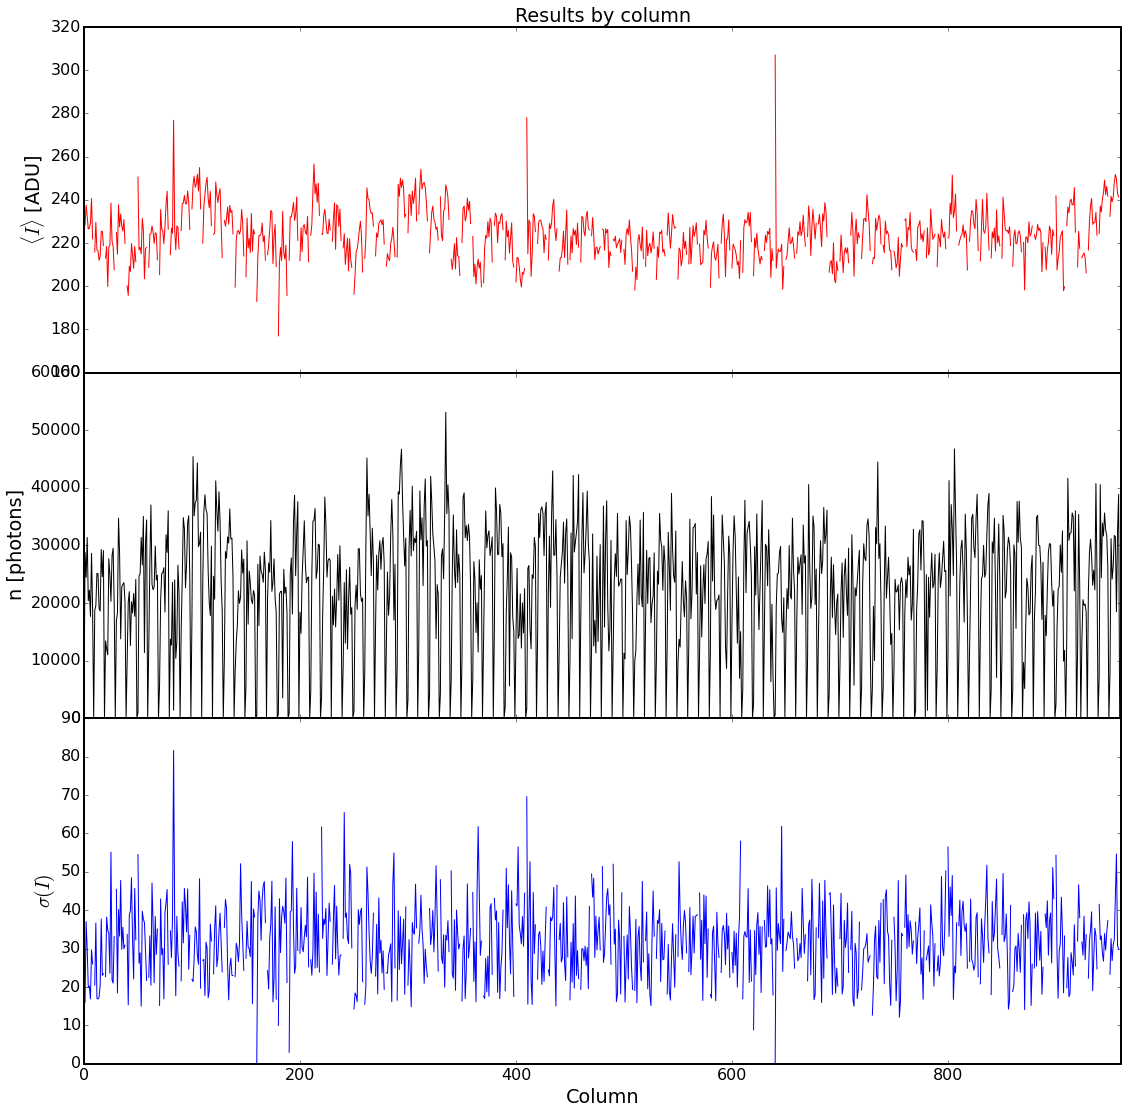
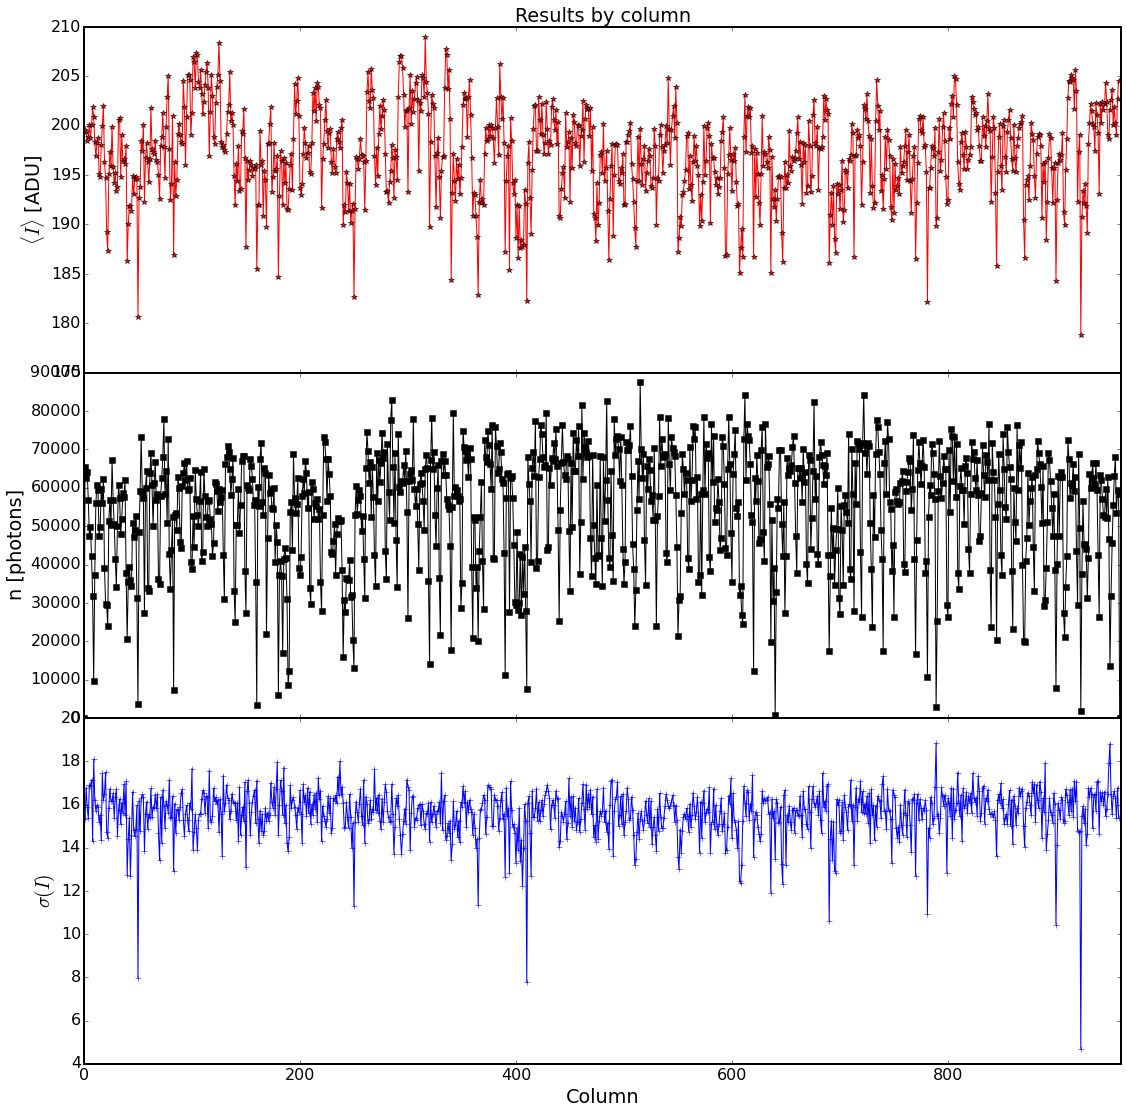
Generated gh-pages commit 9a6eafb Author: Stuart B. Wilkins <swilkins@bnl.gov>
Added license

Changed region(s): [[0.0311, 0.3662, 0.9938, 0.6409], [0.0311, 0.0305, 0.9938, 0.3052], [0.0621, 0.6715, 0.9938, 0.9156]]

diff --git a/searchindex.js b/searchindex.js
@@ -1,1 +1,1 @@
-Search.setIndex({envversion:47,filenames:["api/fastccd","api/image","api/index","api/ipynb","api/utils","examples/Correct_FastCCD_Images","examples/Fe55_Single_Photon_Counting","examples/Performance_Tests","examples/index","index"],objects:{"csxtools.fastccd":{correct_images:[0,1,1,""],photon_count:[0,1,1,""]},"csxtools.image":{rotate90:[1,1,1,""]},"csxtools.ipynb":{image_stack_to_movie:[3,1,1,""],show_image_stack:[3,1,1,""]},"csxtools.utils":{get_fastccd_images:[4,1,1,""]},csxtools:{fastccd:[0,0,0,"-"],image:[1,0,0,"-"],ipynb:[3,0,0,"-"],utils:[4,0,0,"-"]}},objnames:{"0":["py","module","Python module"],"1":["py","function","Python function"]},objtypes:{"0":"py:module","1":"py:function"},terms:{"000000e":5,"00ae":5,"05e2":5,"0b0000000000000000":7,"0b0001111111111111":7,"0b1000000000000000":7,"0b1100000000000000":7,"0x7f20d879def0":[],"0x7f20d87aceb8":[],"0x7f279d2edcc0":[],"0x7f279d625240":[],"0x7fd369567cc0":6,"0x7fd38824fac8":6,"20eed5d8":5,"23id":5,"23id1":5,"2bf2d671":5,"41e5":5,"428e":5,"49ca":5,"4aea":5,"4b0e":5,"4fb9":5,"5edae7b15878":5,"7180b59d":5,"798db66b98a0":5,"8a55":5,"8ccb17cbdacc":5,"95c22c122446":5,"9b11":5,"9bc8893220b0":5,"__version__":5,"import":[],"int":[0,3,7],"return":[0,1,4,6,7],"true":[0,5,6],acquireperiod_rbv:5,acquiretime_rbv:5,adc:0,adjust_gain_and_subtract_bg:7,adu:[],analysi:[0,6],anitclockwis:1,append:6,arang:6,areadetectorfilestorehdf5:5,arrai:[0,1,4,5,6,7],array_lik:[0,1,3,4],asarrai:6,associ:[4,5],astyp:6,auto_monitor:5,avali:4,averag:[],ax1:6,ax2:6,axi:[3,6,7],b10c5661aaaa:5,b2596f8e:5,b592:5,b6a4:5,backgorund:4,backgrond:0,background:5,bad:4,bar:3,base:6,basenam:5,bd3c:5,bd9b:5,beamlin:9,beamline_id:5,bgnd:[5,7],big:7,big_arrai:7,bin:6,bit:4,bnl2_20140410_normalizedtiff:6,bnl2_20140410_normalizedtiffs50count:6,bool:0,bright:0,browser:5,btmx:5,btmy:5,btmz:5,c23:5,calcul:[0,7],call:4,cam1:5,can:[4,5],ccd:[0,5,6,7],ccw:1,ce5042b7:5,chan:5,channel:9,click:9,clockwis:1,cluster:0,cmap:3,cmd:5,cmrmap:3,coher:9,col:[],color:[3,6],colormap:3,column:[5,6],config:5,convert:[3,4],correct:[],correct_imag:[0,7],count:[],creat:[3,7],cryo:5,csxtool:[],d220:5,d8a5:5,dark:[0,4],dark_head:4,darkfield:5,data:[],databork:4,databrok:[4,5],def:[6,7],defin:4,deg:4,degre:[1,6],del:5,delai:5,delta:5,depend:5,deposit:0,detector:5,deviat:[0,6],diag:5,dif:5,differ:0,dimens:4,dirti:5,displai:3,doe:[0,5],dtype:[5,7],each:[0,3],element:0,empti:[0,6],energi:0,enrgi:5,enter:4,entri:5,enumer:6,env:6,epicsmotor:5,epicsscal:5,epicssign:5,epu1_gap:5,epu1_phas:5,epu2_gap:5,epu2_phas:5,epu:5,eta:5,eventdescriptor:5,exit_statu:5,exp100u:6,extern:5,factor:0,fals:[0,5],fast:7,fccd:5,fccd_acquire_period:5,fccd_acquire_tim:5,fccd_data:5,fccd_image_lightfield:[4,5],fccd_stats_total1:5,fccd_stats_total2:5,fccd_stats_total3:5,fccd_stats_total4:5,fccd_stats_total5:5,fe55:6,ffcol:[],ffn:6,ffstd:6,fig:6,figsiz:[3,5,6],figur:[3,6],file_path:5,filestor:5,fill:5,first:[],flat:[0,4],flatfield:[],float32:[6,7],fontsiz:3,form:[3,4],format:[6,7],frame:[3,5],framer:3,freedom:6,from:[3,4,5,6,7],futur:5,g1a:5,gain:[0,4],gam:5,gamma:5,gap:5,gc8f9f5f:5,get_fastccd_imag:[4,5],get_imag:4,get_photon:6,get_tabl:5,global:[6,7],gpf:[5,6],group:5,half:6,hc5837:6,header:[4,5],here:9,hist_x:6,hit:0,html5:5,identifi:0,imag:[],image_stack_to_movi:[3,5],imshow:[3,6],includ:5,inlin:[5,6],input:[0,1],integr:[],intens:0,intensti:3,interact:[],interpol:6,inti:6,ioc_file_path:5,ipynb:[3,5],ipython:[],ipywidget:5,iter:6,join:9,kei:5,label:[3,6],last:[1,4],lbnl_test_data:6,least:[0,4],leftangl:6,legend:6,len:5,lib:6,librari:9,light_head:4,limit:5,line2d:6,line:6,linspac:6,make_panel_plot:6,matplotlib:[3,5,6],matrix:7,max:[0,3],maximum:3,mean:[],metadata:5,min:[0,3],miniconda3:6,minimum:3,minmax:3,mono:5,most:[0,4,5],moudl:5,movi:[],mtr:5,multigain:[0,4],multipl:0,multipli:4,name:5,nan:[0,4,6],nanfunct:6,nanmean:6,nanstd:6,nansum:6,next:6,none:[0,3,4,5,6],notebook:[],npbx:5,npby:5,npbz:5,nptx:5,npty:5,nptz:5,nsl:9,nsum:0,num:5,number:[0,3,5,6,7],numchan:5,numpi:[5,6,7],onli:[5,6],option:0,other:5,owner:5,packag:6,page:6,paramet:[0,1,3,4],per:6,perform:[],pgm_energi:5,phase:5,phocount:6,photon:[],photon_count:[0,6],pixel:[0,4],pleas:9,plot:[],plot_result:6,plt:[5,6],print:[5,6,7],produc:5,project:5,put_complet:5,pv_kw:5,pvposition:5,pyplot:[5,6],python3:6,python:9,rai:9,rainbow:6,rang:6,ravel:6,raw_data:7,rbv:5,read:5,read_pv:5,readback:5,reason:5,record:5,remov:[],replac:0,reshap:[],result:6,retreiv:4,retriev:4,rightangl:6,ring_curr:5,rotat:[],rotate90:[1,7],row:[5,6],run:[],run_start:5,runstart:5,runstop:5,runtimewarn:6,sai:5,sampl:5,saz:5,sbwnotebook:6,scan_arg:5,scan_id:5,scan_typ:5,scatter:9,sclr:5,sclr_chan1:5,sclr_chan2:5,sclr_chan3:5,sclr_chan4:5,sclr_chan5:5,sclr_chan6:5,sclr_chan7:5,sclr_chan8:5,sclr_time:5,search:0,second:[0,6,7],semilog:6,sens:1,sensit:[0,4],set:[0,4],set_titl:6,set_xlabel:6,set_xlim:6,set_ylabel:6,setpoint:5,settle_tim:5,shape:[0,1,3,5,6,7],should:[0,1,4,5],show:3,show_image_stack:[3,5],shutter:5,shutter_rb:5,shutter_v:5,sigma:6,singl:[],site:6,size:[0,1,3,4],slack:9,slice:6,slt1_xc:5,slt1_xg:5,slt1_yc:5,slt1_yg:5,slt2_xc:5,slt2_xg:5,slt2_yc:5,slt2_yg:5,slt3_x:5,slt3_y:5,slt:5,soft:9,some:[],sourc:[0,1,3,4,5],speed:7,stack:[],standard:[0,6],stat:5,stats1:5,stats2:5,stats3:5,stats4:5,stats5:5,stop:5,stop_val:5,string:[1,3,4,5],style:6,subplot:6,subtract:0,subtrtact:0,success:5,support:[5,9],swilkin:6,tag:[4,5],take:[6,7],taken:5,tctrl:5,temp_a:5,temp_b:5,text:6,thank:5,theta:5,thi:[0,1,4,5],three:0,thresh:0,threshold:0,tiff:6,tifffil:6,time:5,timeit:[6,7],topi:5,topx:5,topz:5,total_rbv:5,tupl:[0,3,4],twinx:6,two:[0,1,4],type:[0,1,4],uid:5,uint16:7,untag:5,user:6,util:[],valu:[3,6],variou:5,version:5,video:5,view:5,vmax:[3,5,6],vmin:[3,5,6],warn:6,what:5,where:[0,3],which:5,within:0,without:5,xctr:5,xf23id1:[5,6],xf23id:[5,6],xgap:5,xlabel:6,yctr:5,ygap:5,ylabel:6,your:5,zero:7,zlabel:3},titles:["FastCCD Routines","Image Processing Routines","API Reference for CSX Tools","IPython Notebook Routines","Utilities","Example Notebook for Correcting and loading FastCCD Images","Single Photon Counting with FastCCD and CSXTOOLS","Performance Tests","Example Notebooks","CSXTOOLS Doccumentation"],titleterms:{"function":6,"import":6,adu:6,api:[0,1,2,3,4],check:6,content:[2,8,9],correct:[5,6,7],count:6,csx:2,csxtool:[6,9],data:[5,6],definit:6,difer:6,doccument:9,esum:6,exampl:[5,8],fastccd:[0,5,6,7],first:6,flatfield:6,gener:6,get:5,histogram:6,imag:[1,5,7],integr:6,interact:5,introduct:9,ipython:3,let:5,load:[5,6],loop:6,mean:7,movi:5,notebook:[3,5,8],now:5,perform:7,photon:6,plot:[5,6],process:1,refer:[0,1,2,3,4],rotat:7,routin:[0,1,3],run:6,singl:6,some:6,stack:[5,7],start:5,test:[6,7],tool:2,util:4,widget:5}})
+Search.setIndex({envversion:47,filenames:["api/fastccd","api/image","api/index","api/ipynb","api/utils","examples/Correct_FastCCD_Images","examples/Fe55_Single_Photon_Counting","examples/Performance_Tests","examples/index","index"],objects:{"csxtools.fastccd":{correct_images:[0,1,1,""],photon_count:[0,1,1,""]},"csxtools.image":{rotate90:[1,1,1,""]},"csxtools.ipynb":{image_stack_to_movie:[3,1,1,""],show_image_stack:[3,1,1,""]},"csxtools.utils":{get_fastccd_images:[4,1,1,""]},csxtools:{fastccd:[0,0,0,"-"],image:[1,0,0,"-"],ipynb:[3,0,0,"-"],utils:[4,0,0,"-"]}},objnames:{"0":["py","module","Python module"],"1":["py","function","Python function"]},objtypes:{"0":"py:module","1":"py:function"},terms:{"000000e":5,"00ae":5,"05e2":5,"0b0000000000000000":7,"0b0001111111111111":7,"0b1000000000000000":7,"0b1100000000000000":7,"0x7f20d879def0":[],"0x7f20d87aceb8":[],"0x7f279d2edcc0":[],"0x7f279d625240":[],"0x7fcc94394c50":6,"0x7fcca0ae94e0":6,"0x7fd369567cc0":[],"0x7fd38824fac8":[],"20eed5d8":5,"23id":5,"23id1":5,"2bf2d671":5,"41e5":5,"428e":5,"49ca":5,"4aea":5,"4b0e":5,"4fb9":5,"5edae7b15878":5,"7180b59d":5,"798db66b98a0":5,"8a55":5,"8ccb17cbdacc":5,"95c22c122446":5,"9b11":5,"9bc8893220b0":5,"__version__":5,"import":[],"int":[0,3,7],"return":[0,1,4,6,7],"true":[0,5,6],acquireperiod_rbv:5,acquiretime_rbv:5,adc:0,adjust_gain_and_subtract_bg:7,adu:[],analysi:[0,6],anitclockwis:1,append:6,arang:6,areadetectorfilestorehdf5:5,arrai:[0,1,4,5,6,7],array_lik:[0,1,3,4],asarrai:6,associ:[4,5],astyp:6,auto_monitor:5,avali:4,averag:[],ax1:6,ax2:6,axi:[3,6,7],b10c5661aaaa:5,b2596f8e:5,b592:5,b6a4:5,backgorund:4,backgrond:0,background:5,bad:4,bar:3,base:6,basenam:5,bd3c:5,bd9b:5,beamlin:9,beamline_id:5,bgnd:[5,7],big:7,big_arrai:7,bin:6,bit:4,bnl2_20140410_normalizedtiff:6,bnl2_20140410_normalizedtiffs50count:6,bool:0,bright:0,browser:5,btmx:5,btmy:5,btmz:5,c23:5,calcul:[0,7],call:4,cam1:5,can:[4,5],ccd:[0,5,6,7],ccw:1,ce5042b7:5,chan:5,channel:9,click:9,clockwis:1,cluster:0,cmap:3,cmd:5,cmrmap:3,coher:9,col:[],color:[3,6],colormap:3,column:[5,6],config:5,convert:[3,4],correct:[],correct_imag:[0,7],count:[],creat:[3,7],cryo:5,csxtool:[],d220:5,d8a5:5,dark:[0,4],dark_head:4,darkfield:5,data:[],databork:4,databrok:[4,5],def:[6,7],defin:4,deg:4,degre:[1,6],del:5,delai:5,delta:5,depend:5,deposit:0,detector:5,deviat:[0,6],diag:5,dif:5,differ:0,dimens:4,dirti:5,displai:3,doe:[0,5],dtype:[5,7],each:[0,3],element:0,empti:[0,6],energi:0,enrgi:5,enter:4,entri:5,enumer:6,env:6,epicsmotor:5,epicsscal:5,epicssign:5,epu1_gap:5,epu1_phas:5,epu2_gap:5,epu2_phas:5,epu:5,eta:5,eventdescriptor:5,exit_statu:5,exp100u:6,extern:5,factor:0,fals:[0,5],fast:7,fccd:5,fccd_acquire_period:5,fccd_acquire_tim:5,fccd_data:5,fccd_image_lightfield:[4,5],fccd_stats_total1:5,fccd_stats_total2:5,fccd_stats_total3:5,fccd_stats_total4:5,fccd_stats_total5:5,fe55:6,ffcol:[],ffn:6,ffstd:6,fig:6,figsiz:[3,5,6],figur:[3,6],file_path:5,filestor:5,fill:5,first:[],flat:[0,4],flatfield:[],float32:[6,7],fontsiz:3,form:[3,4],format:[6,7],frame:[3,5],framer:3,freedom:6,from:[3,4,5,6,7],futur:5,g1a:5,gain:[0,4],gam:5,gamma:5,gap:5,gc8f9f5f:5,get_fastccd_imag:[4,5],get_imag:4,get_photon:6,get_tabl:5,global:[6,7],gpf:[5,6],group:5,half:6,hc5837:6,header:[4,5],here:9,hist_x:6,hit:0,html5:5,identifi:0,imag:[],image_stack_to_movi:[3,5],imshow:[3,6],includ:5,inlin:[5,6],input:[0,1],integr:[],intens:0,intensti:3,interact:[],interpol:6,inti:6,ioc_file_path:5,ipynb:[3,5],ipython:[],ipywidget:5,iter:6,join:9,kei:5,label:[3,6],last:[1,4],lbnl_test_data:6,least:[0,4],leftangl:6,legend:6,len:5,lib:6,librari:9,light_head:4,limit:5,line2d:6,line:6,linspac:6,make_panel_plot:6,matplotlib:[3,5,6],matrix:7,max:[0,3],maximum:3,mean:[],metadata:5,min:[0,3],miniconda3:6,minimum:3,minmax:3,mono:5,most:[0,4,5],moudl:5,movi:[],mtr:5,multigain:[0,4],multipl:0,multipli:4,name:5,nan:[0,4,6],nanfunct:6,nanmean:6,nanstd:6,nansum:6,next:6,none:[0,3,4,5,6],notebook:[],npbx:5,npby:5,npbz:5,nptx:5,npty:5,nptz:5,nsl:9,nsum:0,num:5,number:[0,3,5,6,7],numchan:5,numpi:[5,6,7],onli:[5,6],option:0,other:5,owner:5,packag:6,page:6,paramet:[0,1,3,4],per:6,perform:[],pgm_energi:5,phase:5,phocount:6,photon:[],photon_count:[0,6],pixel:[0,4],pleas:9,plot:[],plot_result:6,plt:[5,6],print:[5,6,7],produc:5,project:5,put_complet:5,pv_kw:5,pvposition:5,pyplot:[5,6],python3:6,python:9,rai:9,rainbow:6,rang:6,ravel:6,raw_data:7,rbv:5,read:5,read_pv:5,readback:5,reason:5,record:5,remov:[],replac:0,reshap:[],result:6,retreiv:4,retriev:4,rightangl:6,ring_curr:5,rotat:[],rotate90:[1,7],row:[5,6],run:[],run_start:5,runstart:5,runstop:5,runtimewarn:6,sai:5,sampl:5,saz:5,sbwnotebook:6,scan_arg:5,scan_id:5,scan_typ:5,scatter:9,sclr:5,sclr_chan1:5,sclr_chan2:5,sclr_chan3:5,sclr_chan4:5,sclr_chan5:5,sclr_chan6:5,sclr_chan7:5,sclr_chan8:5,sclr_time:5,search:0,second:[0,6,7],semilog:6,sens:1,sensit:[0,4],set:[0,4],set_titl:6,set_xlabel:6,set_xlim:6,set_ylabel:6,setpoint:5,settle_tim:5,shape:[0,1,3,5,6,7],should:[0,1,4,5],show:3,show_image_stack:[3,5],shutter:5,shutter_rb:5,shutter_v:5,sigma:6,singl:[],site:6,size:[0,1,3,4],slack:9,slice:6,slt1_xc:5,slt1_xg:5,slt1_yc:5,slt1_yg:5,slt2_xc:5,slt2_xg:5,slt2_yc:5,slt2_yg:5,slt3_x:5,slt3_y:5,slt:5,soft:9,some:[],sourc:[0,1,3,4,5],speed:7,stack:[],standard:[0,6],stat:5,stats1:5,stats2:5,stats3:5,stats4:5,stats5:5,stop:5,stop_val:5,string:[1,3,4,5],style:6,subplot:6,subtract:0,subtrtact:0,success:5,support:[5,9],swilkin:6,tag:[4,5],take:[6,7],taken:5,tctrl:5,temp_a:5,temp_b:5,text:6,thank:5,theta:5,thi:[0,1,4,5],three:0,thresh:0,threshold:0,tiff:6,tifffil:6,time:5,timeit:[6,7],topi:5,topx:5,topz:5,total_rbv:5,tupl:[0,3,4],twinx:6,two:[0,1,4],type:[0,1,4],uid:5,uint16:7,untag:5,user:6,util:[],valu:[3,6],variou:5,version:5,video:5,view:5,vmax:[3,5,6],vmin:[3,5,6],warn:6,what:5,where:[0,3],which:5,within:0,without:5,xctr:5,xf23id1:[5,6],xf23id:[5,6],xgap:5,xlabel:6,yctr:5,ygap:5,ylabel:6,your:5,zero:7,zlabel:3},titles:["FastCCD Routines","Image Processing Routines","API Reference for CSX Tools","IPython Notebook Routines","Utilities","Example Notebook for Correcting and loading FastCCD Images","Single Photon Counting with FastCCD and CSXTOOLS","Performance Tests","Example Notebooks","CSXTOOLS Doccumentation"],titleterms:{"function":6,"import":6,adu:6,api:[0,1,2,3,4],check:6,content:[2,8,9],correct:[5,6,7],count:6,csx:2,csxtool:[6,9],data:[5,6],definit:6,difer:6,doccument:9,esum:6,exampl:[5,8],fastccd:[0,5,6,7],first:6,flatfield:6,gener:6,get:5,histogram:6,imag:[1,5,7],integr:6,interact:5,introduct:9,ipython:3,let:5,load:[5,6],loop:6,mean:7,movi:5,notebook:[3,5,8],now:5,perform:7,photon:6,plot:[5,6],process:1,refer:[0,1,2,3,4],rotat:7,routin:[0,1,3],run:6,singl:6,some:6,stack:[5,7],start:5,test:[6,7],tool:2,util:4,widget:5}})

diff --git a/examples/Fe55_Single_Photon_Counting.html b/examples/Fe55_Single_Photon_Counting.html
@@ -146,7 +146,7 @@ import timeit
     <span class="n">histograms</span> <span class="o">=</span> <span class="p">[]</span>
 
     <span class="k">for</span> <span class="n">n</span> <span class="ow">in</span> <span class="nb">range</span><span class="p">(</span><span class="mi">1</span><span class="p">,</span> <span class="mi">9</span><span class="p">):</span>
-        <span class="n">c</span> <span class="o">=</span> <span class="n">phocount</span><span class="o">.</span><span class="n">photon_count</span><span class="p">(</span><span class="n">data</span><span class="p">,</span> <span class="p">(</span><span class="mi">75</span><span class="p">,</span><span class="mi">125</span><span class="p">),</span> <span class="n">n</span><span class="p">,</span> <span class="bp">True</span><span class="p">)</span>
+        <span class="n">c</span> <span class="o">=</span> <span class="n">phocount</span><span class="o">.</span><span class="n">photon_count</span><span class="p">(</span><span class="n">data</span><span class="p">,</span> <span class="p">(</span><span class="mi">75</span><span class="p">,</span><span class="mi">250</span><span class="p">),</span> <span class="p">(</span><span class="mi">0</span><span class="p">,</span> <span class="mi">500</span><span class="p">),</span> <span class="n">n</span><span class="p">,</span> <span class="bp">True</span><span class="p">)</span>
         <span class="n">h</span> <span class="o">=</span> <span class="n">np</span><span class="o">.</span><span class="n">histogram</span><span class="p">(</span><span class="n">c</span><span class="p">[</span><span class="mi">0</span><span class="p">],</span> <span class="n">bins</span><span class="o">=</span><span class="mi">100</span><span class="p">,</span> <span class="nb">range</span><span class="o">=</span><span class="p">(</span><span class="mi">50</span><span class="p">,</span> <span class="mi">350</span><span class="p">))</span>
         <span class="n">results</span><span class="o">.</span><span class="n">append</span><span class="p">(</span><span class="n">c</span><span class="p">[</span><span class="mi">0</span><span class="p">]</span><span class="o">.</span><span class="n">ravel</span><span class="p">())</span>
         <span class="n">histograms</span><span class="o">.</span><span class="n">append</span><span class="p">(</span><span class="n">h</span><span class="p">[</span><span class="mi">0</span><span class="p">])</span>
@@ -191,7 +191,6 @@ import timeit
 <span class="n">data</span> <span class="o">=</span> <span class="n">np</span><span class="o">.</span><span class="n">array</span><span class="p">(</span><span class="n">data</span><span class="p">)</span>
 <span class="c"># Only take half the CCD</span>
 <span class="n">data</span> <span class="o">=</span> <span class="n">data</span><span class="p">[:,</span><span class="mi">240</span><span class="p">:,:]</span>
-<span class="n">data</span><span class="p">[:,:,</span><span class="mi">9</span><span class="p">::</span><span class="mi">10</span><span class="p">]</span> <span class="o">=</span> <span class="n">np</span><span class="o">.</span><span class="n">nan</span>
 <span class="k">print</span><span class="p">(</span><span class="n">data</span><span class="o">.</span><span class="n">shape</span><span class="p">)</span>
 </pre></div>
 </div>
@@ -207,15 +206,15 @@ import timeit
 <span class="n">plt</span><span class="o">.</span><span class="n">ylabel</span><span class="p">(</span><span class="s">&#39;Rows&#39;</span><span class="p">)</span>
 </pre></div>
 </div>
-<div class="highlight-python"><div class="highlight"><pre>&lt;matplotlib.text.Text at 0x7fd38824fac8&gt;
+<div class="highlight-python"><div class="highlight"><pre>&lt;matplotlib.text.Text at 0x7fcca0ae94e0&gt;
 </pre></div>
 </div>
 <img alt="../_images/Fe55_Single_Photon_Counting_7_1.png" src="../_images/Fe55_Single_Photon_Counting_7_1.png" />
-<div class="code python highlight-python"><div class="highlight"><pre><span class="n">t</span> <span class="o">=</span> <span class="n">timeit</span><span class="o">.</span><span class="n">timeit</span><span class="p">(</span><span class="s">&#39;phocount.photon_count(data, (150,250), 3)&#39;</span><span class="p">,</span> <span class="nb">globals</span><span class="o">=</span><span class="nb">globals</span><span class="p">(),</span> <span class="n">number</span><span class="o">=</span><span class="mi">10</span><span class="p">)</span>
-<span class="k">print</span><span class="p">(</span><span class="s">&quot;Photon counting array of {} takes {} seconds&quot;</span><span class="o">.</span><span class="n">format</span><span class="p">(</span><span class="n">data</span><span class="o">.</span><span class="n">shape</span><span class="p">,</span> <span class="n">t</span> <span class="o">/</span> <span class="mi">10</span><span class="p">))</span>
+<div class="code python highlight-python"><div class="highlight"><pre><span class="n">t</span> <span class="o">=</span> <span class="n">timeit</span><span class="o">.</span><span class="n">timeit</span><span class="p">(</span><span class="s">&#39;phocount.photon_count(data, (150,250), (0, 300), 3)&#39;</span><span class="p">,</span> <span class="nb">globals</span><span class="o">=</span><span class="nb">globals</span><span class="p">(),</span> <span class="n">number</span><span class="o">=</span><span class="mi">25</span><span class="p">)</span>
+<span class="k">print</span><span class="p">(</span><span class="s">&quot;Photon counting array of {} takes {:.3} seconds&quot;</span><span class="o">.</span><span class="n">format</span><span class="p">(</span><span class="n">data</span><span class="o">.</span><span class="n">shape</span><span class="p">,</span> <span class="n">t</span> <span class="o">/</span> <span class="mi">25</span><span class="p">))</span>
 </pre></div>
 </div>
-<div class="highlight-python"><div class="highlight"><pre>Photon counting array of (660, 238, 960) takes 0.3954857678618282 seconds
+<div class="highlight-python"><div class="highlight"><pre>Photon counting array of (660, 238, 960) takes 0.398 seconds
 </pre></div>
 </div>
 <div class="code python highlight-python"><div class="highlight"><pre><span class="n">h</span> <span class="o">=</span> <span class="n">np</span><span class="o">.</span><span class="n">histogram</span><span class="p">(</span><span class="n">data</span><span class="o">.</span><span class="n">ravel</span><span class="p">(),</span> <span class="n">bins</span><span class="o">=</span><span class="mi">300</span><span class="p">,</span> <span class="nb">range</span><span class="o">=</span><span class="p">(</span><span class="mi">0</span><span class="p">,</span> <span class="mi">300</span><span class="p">))</span>
@@ -223,7 +222,7 @@ import timeit
 <span class="n">ax</span><span class="o">.</span><span class="n">semilogy</span><span class="p">(</span><span class="n">h</span><span class="p">[</span><span class="mi">1</span><span class="p">][:</span><span class="o">-</span><span class="mi">1</span><span class="p">],</span> <span class="n">h</span><span class="p">[</span><span class="mi">0</span><span class="p">],</span> <span class="s">&#39;r-&#39;</span><span class="p">)</span>
 </pre></div>
 </div>
-<div class="highlight-python"><div class="highlight"><pre>[&lt;matplotlib.lines.Line2D at 0x7fd369567cc0&gt;]
+<div class="highlight-python"><div class="highlight"><pre>[&lt;matplotlib.lines.Line2D at 0x7fcc94394c50&gt;]
 </pre></div>
 </div>
 <img alt="../_images/Fe55_Single_Photon_Counting_9_1.png" src="../_images/Fe55_Single_Photon_Counting_9_1.png" />
@@ -244,7 +243,7 @@ import timeit
 <div class="section" id="flatfield-correction">
 <h2>Flatfield Correction<a class="headerlink" href="#flatfield-correction" title="Permalink to this headline">¶</a></h2>
 <p>Now generate a flatfield correction based on the mean per column.</p>
-<div class="code python highlight-python"><div class="highlight"><pre><span class="n">c</span> <span class="o">=</span> <span class="n">phocount</span><span class="o">.</span><span class="n">photon_count</span><span class="p">(</span><span class="n">data</span><span class="o">.</span><span class="n">astype</span><span class="p">(</span><span class="n">np</span><span class="o">.</span><span class="n">float32</span><span class="p">),</span> <span class="p">(</span><span class="mi">150</span><span class="p">,</span><span class="mi">250</span><span class="p">),</span> <span class="mi">3</span><span class="p">,</span> <span class="bp">True</span><span class="p">)</span>
+<div class="code python highlight-python"><div class="highlight"><pre><span class="n">c</span> <span class="o">=</span> <span class="n">phocount</span><span class="o">.</span><span class="n">photon_count</span><span class="p">(</span><span class="n">data</span><span class="o">.</span><span class="n">astype</span><span class="p">(</span><span class="n">np</span><span class="o">.</span><span class="n">float32</span><span class="p">),</span> <span class="p">(</span><span class="mi">75</span><span class="p">,</span><span class="mi">250</span><span class="p">),</span> <span class="p">(</span><span class="mi">170</span><span class="p">,</span> <span class="mi">230</span><span class="p">),</span> <span class="mi">3</span><span class="p">,</span> <span class="bp">True</span><span class="p">)</span>
 <span class="n">inti</span> <span class="o">=</span> <span class="n">c</span><span class="p">[</span><span class="mi">0</span><span class="p">]</span>
 <span class="c">#inti[:,:,0::10] = np.nan</span>
 <span class="c">#inti[:,:,9::10] = np.nan</span>
@@ -262,9 +261,9 @@ import timeit
 <div class="code python highlight-python"><div class="highlight"><pre><span class="n">fig</span> <span class="o">=</span> <span class="n">plt</span><span class="o">.</span><span class="n">figure</span><span class="p">(</span><span class="n">figsize</span><span class="o">=</span><span class="p">(</span><span class="mi">18</span><span class="p">,</span><span class="mi">18</span><span class="p">))</span>
 <span class="n">ax</span> <span class="o">=</span> <span class="n">make_panel_plot</span><span class="p">(</span><span class="n">n</span><span class="o">=</span><span class="mi">3</span><span class="p">,</span> <span class="n">fig</span><span class="o">=</span><span class="n">fig</span><span class="p">)</span>
 
-<span class="n">ax</span><span class="p">[</span><span class="mi">2</span><span class="p">]</span><span class="o">.</span><span class="n">plot</span><span class="p">(</span><span class="n">ff</span><span class="p">,</span> <span class="s">&#39;r-&#39;</span><span class="p">)</span>
-<span class="n">ax</span><span class="p">[</span><span class="mi">1</span><span class="p">]</span><span class="o">.</span><span class="n">plot</span><span class="p">(</span><span class="n">ffn</span><span class="p">,</span> <span class="s">&#39;k-&#39;</span><span class="p">)</span>
-<span class="n">ax</span><span class="p">[</span><span class="mi">0</span><span class="p">]</span><span class="o">.</span><span class="n">plot</span><span class="p">(</span><span class="n">ffstd</span><span class="p">,</span> <span class="s">&#39;b-&#39;</span><span class="p">)</span>
+<span class="n">ax</span><span class="p">[</span><span class="mi">2</span><span class="p">]</span><span class="o">.</span><span class="n">plot</span><span class="p">(</span><span class="n">ff</span><span class="p">,</span> <span class="s">&#39;r*-&#39;</span><span class="p">)</span>
+<span class="n">ax</span><span class="p">[</span><span class="mi">1</span><span class="p">]</span><span class="o">.</span><span class="n">plot</span><span class="p">(</span><span class="n">ffn</span><span class="p">,</span> <span class="s">&#39;ks-&#39;</span><span class="p">)</span>
+<span class="n">ax</span><span class="p">[</span><span class="mi">0</span><span class="p">]</span><span class="o">.</span><span class="n">plot</span><span class="p">(</span><span class="n">ffstd</span><span class="p">,</span> <span class="s">&#39;b+-&#39;</span><span class="p">)</span>
 
 <span class="n">ax</span><span class="p">[</span><span class="mi">2</span><span class="p">]</span><span class="o">.</span><span class="n">set_ylabel</span><span class="p">(</span><span class="s">r&#39;$\leftangle I \rightangle$ [ADU]&#39;</span><span class="p">)</span>
 <span class="n">ax</span><span class="p">[</span><span class="mi">2</span><span class="p">]</span><span class="o">.</span><span class="n">set_title</span><span class="p">(</span><span class="s">&#39;Results by column &#39;</span><span class="p">)</span>
